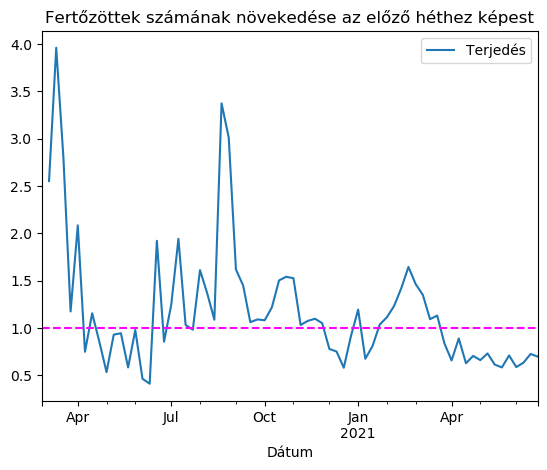
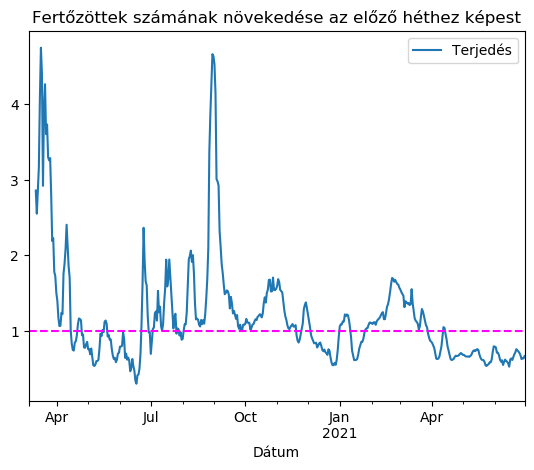
Még egy heti mozgó átlag

diff --git a/kép_covid_terjedése_hetente.py b/kép_covid_terjedése_hetente.py
@@ -9,24 +9,18 @@ import os
 BASEDIR=os.path.dirname(__file__)
 
 df = pd.read_csv(BASEDIR +"/adatok/covidadatok.csv", parse_dates=['Dátum'])
-df['Hét kezdet'] = df.apply(lambda row: row['Dátum'] - dt.timedelta(days=row['Dátum'].weekday()), axis=1)
+dfheti = df.rolling(7, center=True, min_periods=4).mean()
+df['Heti új fertőzöttek átlaga'] = dfheti['Napi új fertőzött']
 
-dfheti = (df.groupby('Hét kezdet', as_index=False).mean())
-dfheti['Heti új fertőzöttek átlaga'] = dfheti['Napi új fertőzött']
-dfheti['Dátum'] = dfheti['Hét kezdet']
-
-
-elozoertek = dfheti.iloc[:-1]['Heti új fertőzöttek átlaga']
-
-elsonan = pd.DataFrame([[np.NaN]]);
+elozoertek = df.iloc[:-7]['Heti új fertőzöttek átlaga']
+elsonan = pd.DataFrame([[np.NaN]] * 7);
 elozoertek = pd.concat([elsonan, elozoertek], ignore_index=True)
 elozoertek.columns = ['Előző fertőzött átlag']
 
-dfheti['Előző fertőzött átlag'] = elozoertek['Előző fertőzött átlag']
-dfheti['Terjedés'] = dfheti['Heti új fertőzöttek átlaga'] / dfheti['Előző fertőzött átlag']
+df['Előző fertőzött átlag'] = elozoertek['Előző fertőzött átlag']
+df['Terjedés'] = df['Heti új fertőzöttek átlaga'] / df['Előző fertőzött átlag']
 
-
-plot = dfheti.plot(x='Dátum', y='Terjedés', title="Fertőzöttek számának növekedése az előző héthez képest")	
+plot = df.plot(x='Dátum', y='Terjedés', title="Fertőzöttek számának növekedése az előző héthez képest")	
 plot.axhline(1.0,color='magenta',ls='--')
 
 
